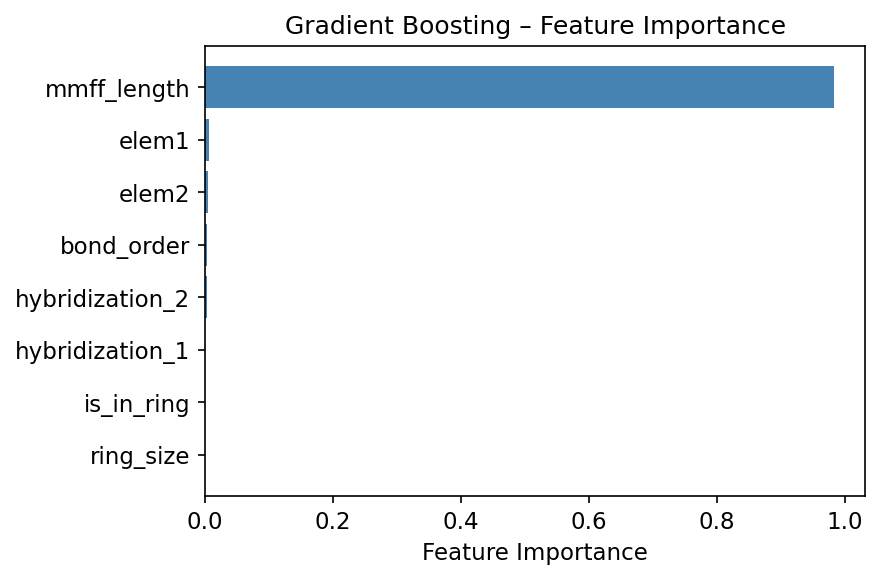
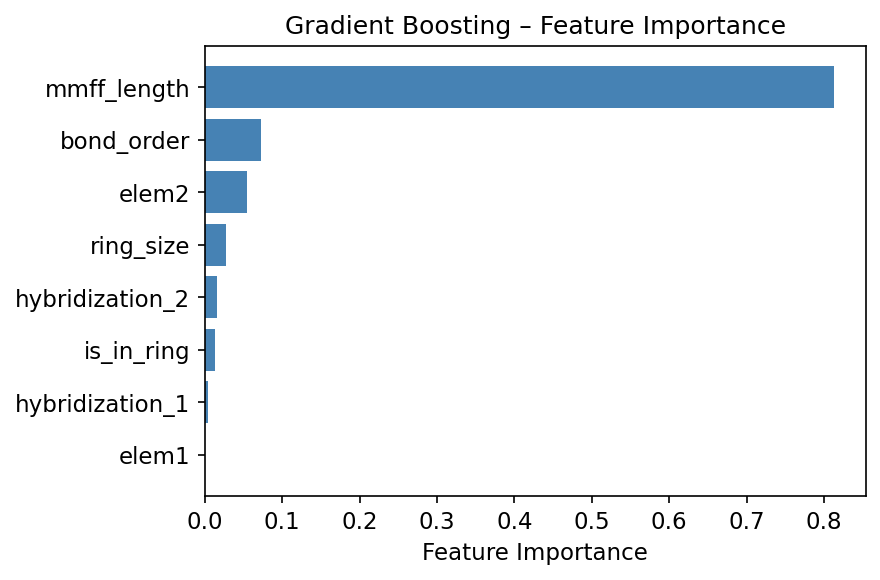
feat: add delta target mode — predict correction (dft-mmff) instead of absolute length
- train.py: add --target-mode flag (absolute|delta); artifact saved as dict with target_mode
- corrector.py: load dict artifact, apply delta→dft conversion (mmff + pred_delta)
- scripts/compare_target_modes.py: side-by-side CV MAE, parity plots, per-bond-type analysis
- Results: delta CV MAE 0.0022±0.0004 Å vs absolute 0.0026±0.0009 Å (+16% / +51% stability)
- Feature importance: bond_order 7.3%, elem2 5.5% now contribute (vs ~0% in absolute mode)
- Default model retrained with delta mode

diff --git a/scripts/compare_target_modes.py b/scripts/compare_target_modes.py
@@ -1,0 +1,166 @@
+"""
+absolute vs delta 타겟 모드 비교 분석
+
+두 가지 타겟 모드로 모델을 학습하고 결과를 비교한다:
+  - absolute: dft_length를 직접 예측
+  - delta:    (dft_length - mmff_length) 보정량을 예측
+
+출력:
+  figures/05_target_mode_comparison.png  (4-panel 비교 그래프)
+  figures/05_target_mode_comparison.csv  (결합 유형별 오차 분석)
+"""
+import sys, os
+sys.path.insert(0, os.path.join(os.path.dirname(__file__), ".."))
+
+import numpy as np
+import pandas as pd
+import matplotlib
+matplotlib.use("Agg")
+import matplotlib.pyplot as plt
+from pathlib import Path
+
+from delta_chem.ml.train import train
+
+FEATURES_CSV = "data/features/bond_features.csv"
+FIGDIR = Path("figures")
+FIGDIR.mkdir(exist_ok=True)
+
+print("=" * 60)
+print("  Target Mode Comparison: absolute vs delta")
+print("=" * 60)
+
+# ── 두 모드 학습 ─────────────────────────────────────────────────
+print("\n[1/2] absolute 모드 학습...")
+res_abs = train(
+    features_csv=FEATURES_CSV,
+    model_out="models/bond_length_corrector_absolute.joblib",
+    exclude=["acetylene"],
+    target_mode="absolute",
+)
+
+print("\n[2/2] delta 모드 학습...")
+res_del = train(
+    features_csv=FEATURES_CSV,
+    model_out="models/bond_length_corrector_delta.joblib",
+    exclude=["acetylene"],
+    target_mode="delta",
+)
+
+# ── 결과 요약 ────────────────────────────────────────────────────
+abs_mae = res_abs["cv_mae"].mean()
+abs_std = res_abs["cv_mae"].std()
+del_mae = res_del["cv_mae"].mean()
+del_std = res_del["cv_mae"].std()
+
+print("\n" + "=" * 60)
+print(f"{'':30s} {'absolute':>12s}  {'delta':>12s}")
+print("=" * 60)
+print(f"{'5-Fold CV MAE (Å)':<30s} {abs_mae:>12.5f}  {del_mae:>12.5f}")
+print(f"{'CV MAE std (Å)':<30s} {abs_std:>12.5f}  {del_std:>12.5f}")
+print(f"{'개선율':<30s} {'':>12s}  {(1 - del_mae/abs_mae)*100:>+11.1f}%")
+print("=" * 60)
+
+# ── 결합 유형별 오차 분석 ────────────────────────────────────────
+df = res_abs["df"].copy()
+
+# absolute 모드: y_pred = dft_length 예측
+df["pred_abs"] = res_abs["y_pred"]
+df["err_abs"]  = (df["pred_abs"] - df["dft_length"]).abs()
+
+# delta 모드: y_pred = delta 예측 → dft_length 공간으로 변환
+df["pred_del_dft"] = df["mmff_length"] + res_del["y_pred"]
+df["err_del"]      = (df["pred_del_dft"] - df["dft_length"]).abs()
+
+# 결합 유형 레이블 생성
+def bond_label(row):
+    bo_map = {1.0: "s", 1.5: "ar", 2.0: "d", 3.0: "t"}
+    bo = bo_map.get(row["bond_order"], "?")
+    return f"{row['elem1']}-{row['elem2']}({bo})"
+
+df["bond_type"] = df.apply(bond_label, axis=1)
+
+bt_stats = df.groupby("bond_type").agg(
+    n=("err_abs", "count"),
+    mae_abs=("err_abs", "mean"),
+    mae_del=("err_del", "mean"),
+).reset_index()
+bt_stats["improvement"] = (1 - bt_stats["mae_del"] / bt_stats["mae_abs"]) * 100
+bt_stats = bt_stats.sort_values("n", ascending=False)
+
+print("\n결합 유형별 MAE 비교 (훈련셋 전체):")
+print(f"{'결합 유형':<14s} {'n':>5s}  {'MAE_abs':>10s}  {'MAE_del':>10s}  {'개선율':>8s}")
+print("-" * 54)
+for _, r in bt_stats.iterrows():
+    print(f"{r['bond_type']:<14s} {int(r['n']):>5d}  "
+          f"{r['mae_abs']*1000:>8.3f}mÅ  {r['mae_del']*1000:>8.3f}mÅ  {r['improvement']:>+7.1f}%")
+
+# CSV 저장
+csv_path = FIGDIR / "05_target_mode_comparison.csv"
+bt_stats.to_csv(csv_path, index=False)
+print(f"\nCSV 저장: {csv_path}")
+
+# ── 시각화 ───────────────────────────────────────────────────────
+fig, axes = plt.subplots(2, 2, figsize=(13, 10))
+fig.suptitle("Target Mode Comparison: Absolute vs Delta",
+             fontsize=14, fontweight="bold")
+
+colors = {"absolute": "#5B9BD5", "delta": "#ED7D31"}
+
+# Panel 1: CV MAE per fold
+ax = axes[0, 0]
+folds = np.arange(1, 6)
+ax.plot(folds, res_abs["cv_mae"] * 1000, "o-", color=colors["absolute"],
+        label=f"Absolute  (mean={abs_mae*1000:.2f} mÅ)")
+ax.plot(folds, res_del["cv_mae"] * 1000, "s--", color=colors["delta"],
+        label=f"Delta     (mean={del_mae*1000:.2f} mÅ)")
+ax.set_xlabel("Fold")
+ax.set_ylabel("MAE (mÅ)")
+ax.set_title("5-Fold Cross-Validation MAE")
+ax.set_xticks(folds)
+ax.legend(fontsize=9)
+ax.grid(True, alpha=0.3)
+
+# Panel 2: Parity plot — absolute
+ax2 = axes[0, 1]
+y_true_abs = df["dft_length"].values
+ax2.scatter(y_true_abs, df["pred_abs"].values,
+            s=8, alpha=0.4, color=colors["absolute"])
+lo, hi = y_true_abs.min() - 0.01, y_true_abs.max() + 0.01
+ax2.plot([lo, hi], [lo, hi], "k--", lw=0.8)
+ax2.set_xlabel("DFT length (Å)")
+ax2.set_ylabel("Predicted (Å)")
+ax2.set_title(f"Parity — Absolute  MAE={abs_mae*1000:.2f} mÅ")
+ax2.set_aspect("equal")
+
+# Panel 3: Parity plot — delta
+ax3 = axes[1, 0]
+ax3.scatter(y_true_abs, df["pred_del_dft"].values,
+            s=8, alpha=0.4, color=colors["delta"])
+ax3.plot([lo, hi], [lo, hi], "k--", lw=0.8)
+ax3.set_xlabel("DFT length (Å)")
+ax3.set_ylabel("Predicted (Å)")
+ax3.set_title(f"Parity — Delta  MAE={del_mae*1000:.2f} mÅ")
+ax3.set_aspect("equal")
+
+# Panel 4: 결합 유형별 MAE 비교 막대그래프
+ax4 = axes[1, 1]
+top_bt = bt_stats.head(10)  # 상위 10개 결합 유형만
+x = np.arange(len(top_bt))
+w = 0.38
+b1 = ax4.bar(x - w/2, top_bt["mae_abs"] * 1000, w,
+             label="Absolute", color=colors["absolute"], edgecolor="white")
+b2 = ax4.bar(x + w/2, top_bt["mae_del"] * 1000, w,
+             label="Delta", color=colors["delta"], edgecolor="white")
+ax4.set_xticks(x)
+ax4.set_xticklabels(top_bt["bond_type"], rotation=35, ha="right", fontsize=8)
+ax4.set_ylabel("Train MAE (mÅ)")
+ax4.set_title("Per Bond-Type Train MAE")
+ax4.legend(fontsize=9)
+ax4.grid(True, alpha=0.3, axis="y")
+
+plt.tight_layout()
+png_path = FIGDIR / "05_target_mode_comparison.png"
+fig.savefig(png_path, dpi=150, bbox_inches="tight")
+plt.close(fig)
+print(f"그래프 저장: {png_path}")
+print("\n완료.")

diff --git a/src/delta_chem/ml/train.py b/src/delta_chem/ml/train.py
@@ -3,7 +3,7 @@ bond_features.csv → GradientBoosting 보정 모델 학습
 
 사용법:
     conda run -n delta_chem python scripts/train_model.py
-    conda run -n delta_chem python scripts/train_model.py --features data/features/bond_features.csv
+    conda run -n delta_chem python scripts/train_model.py --target-mode delta
 """
 import argparse
 import joblib
@@ -19,7 +19,6 @@ from sklearn.preprocessing import OrdinalEncoder
 
 CAT_FEATURES = ["elem1", "elem2", "hybridization_1", "hybridization_2"]
 NUM_FEATURES = ["bond_order", "is_in_ring", "ring_size", "mmff_length"]
-TARGET = "dft_length"
 
 
 def build_pipeline(n_estimators: int = 300, max_depth: int = 4) -> Pipeline:
@@ -44,28 +43,50 @@ def train(
     n_estimators: int = 300,
     max_depth: int = 4,
     exclude: list | None = None,
-) -> None:
+    target_mode: str = "absolute",   # "absolute" | "delta"
+) -> dict:
+    """
+    모델을 학습하고 결과 dict를 반환한다.
+
+    target_mode:
+      "absolute" — dft_length를 직접 예측 (기존 방식)
+      "delta"    — (dft_length - mmff_length) 보정량을 예측
+    """
     df = pd.read_csv(features_csv)
     if exclude:
         df = df[~df["mol_name"].isin(exclude)]
         print(f"제외 분자: {exclude}")
     print(f"데이터: {len(df)}행  {df['mol_name'].nunique()}개 분자")
-    print(f"결합 유형 분포:\n{df.groupby(['elem1','elem2','bond_order']).size().to_string()}\n")
+    print(f"타겟 모드: {target_mode}")
 
     X = df[CAT_FEATURES + NUM_FEATURES]
-    y = df[TARGET]
+
+    if target_mode == "delta":
+        y = df["dft_length"] - df["mmff_length"]
+        print(f"타겟(delta) 통계: mean={y.mean():.5f} std={y.std():.5f} Å")
+    else:
+        y = df["dft_length"]
+        print(f"타겟(dft_length) 통계: mean={y.mean():.5f} std={y.std():.5f} Å")
 
     pipe = build_pipeline(n_estimators, max_depth)
 
     # 5-fold cross-validation
     cv = KFold(n_splits=5, shuffle=True, random_state=42)
-    mae_scores = -cross_val_score(pipe, X, y, cv=cv, scoring="neg_mean_absolute_error")
-    print(f"5-Fold CV MAE: {mae_scores.mean():.4f} ± {mae_scores.std():.4f} Å")
-    print(f"  (목표: < 0.005 Å for meaningful DFT correction)")
+    cv_raw = -cross_val_score(pipe, X, y, cv=cv, scoring="neg_mean_absolute_error")
+
+    # delta 모드 CV MAE는 dft_length 기준으로 환산 (동일 스케일 비교)
+    # delta와 absolute 모두 실제 dft_length 오차로 해석 가능 (mmff_length가 feature이므로)
+    print(f"5-Fold CV MAE ({target_mode}): {cv_raw.mean():.4f} ± {cv_raw.std():.4f} Å")
 
     # 전체 데이터로 최종 학습
     pipe.fit(X, y)
     y_pred = pipe.predict(X)
+
+    # delta 모드: train MAE를 dft_length 공간에서도 확인
+    if target_mode == "delta":
+        y_dft_pred = df["mmff_length"] + y_pred
+        train_mae_dft = float(np.abs(y_dft_pred - df["dft_length"]).mean())
+        print(f"Train MAE (dft_length 공간): {train_mae_dft:.4f} Å")
 
     # Feature importance
     model = pipe.named_steps["model"]
@@ -73,21 +94,25 @@ def train(
     importances = model.feature_importances_
     print("\nFeature importance:")
     for fname, imp in sorted(zip(feature_names, importances), key=lambda x: -x[1]):
-        print(f"  {fname:<20s} {imp:.4f}")
+        bar = "█" * int(imp * 40)
+        print(f"  {fname:<22s} {imp:.4f}  {bar}")
 
-    # 저장
+    # 저장: pipeline + target_mode를 함께 묶어 저장
+    artifact = {"pipeline": pipe, "target_mode": target_mode}
     Path(model_out).parent.mkdir(parents=True, exist_ok=True)
-    joblib.dump(pipe, model_out)
+    joblib.dump(artifact, model_out)
     print(f"\n모델 저장: {model_out}")
 
-    # ── 그래프 & CSV ──────────────────────────────────────────────────
-    print("\n그래프 생성 중...")
-    from delta_chem.viz import (
-        plot_feature_importance, plot_parity, save_cv_scores_csv
-    )
-    plot_feature_importance(np.array(feature_names), importances)
-    plot_parity(y.values, y_pred, mae_scores.mean())
-    save_cv_scores_csv(mae_scores)
+    return {
+        "pipe": pipe,
+        "target_mode": target_mode,
+        "cv_mae": cv_raw,
+        "feature_names": np.array(feature_names),
+        "importances": importances,
+        "y_true": y.values,
+        "y_pred": y_pred,
+        "df": df,
+    }
 
 
 def main():
@@ -96,9 +121,21 @@ def main():
     parser.add_argument("--model-out", default="models/bond_length_corrector.joblib")
     parser.add_argument("--n-estimators", type=int, default=300)
     parser.add_argument("--max-depth", type=int, default=4)
-    parser.add_argument("--exclude", nargs="*", default=None, help="훈련에서 제외할 분자명 목록")
+    parser.add_argument("--exclude", nargs="*", default=None)
+    parser.add_argument("--target-mode", choices=["absolute", "delta"], default="absolute",
+                        help="absolute: dft_length 직접 예측 / delta: (dft-mmff) 보정량 예측")
     args = parser.parse_args()
-    train(args.features, args.model_out, args.n_estimators, args.max_depth, args.exclude)
+
+    result = train(
+        args.features, args.model_out,
+        args.n_estimators, args.max_depth,
+        args.exclude, args.target_mode,
+    )
+
+    from delta_chem.viz import plot_feature_importance, plot_parity, save_cv_scores_csv
+    plot_feature_importance(result["feature_names"], result["importances"])
+    plot_parity(result["y_true"], result["y_pred"], result["cv_mae"].mean())
+    save_cv_scores_csv(result["cv_mae"])
 
 
 if __name__ == "__main__":

diff --git a/src/delta_chem/ml/corrector.py b/src/delta_chem/ml/corrector.py
@@ -35,7 +35,10 @@ def correct_geometry(mol: Chem.Mol, model_path: str) -> Chem.Mol:
     Returns:
         보정된 좌표를 가진 mol (원본 mol 객체는 변경하지 않음)
     """
-    pipe = _load_model(model_path)
+    artifact = _load_model(model_path)
+    pipe = artifact["pipeline"]
+    target_mode = artifact["target_mode"]
+
     conf = mol.GetConformer()
     coords = np.array([conf.GetAtomPosition(i) for i in range(mol.GetNumAtoms())])
     ring_info = mol.GetRingInfo()
@@ -70,12 +73,16 @@ def correct_geometry(mol: Chem.Mol, model_path: str) -> Chem.Mol:
 
     # 단일 배치 예측
     df_all = pd.DataFrame(rows)
-    pred_lens = pipe.predict(df_all)
+    pred_vals = pipe.predict(df_all)
 
     # 결합별 스케일 비율 계산
     scale: dict[tuple[int, int], float] = {}
-    for (i, j, mmff_len), pred_len in zip(bond_indices, pred_lens):
-        s = float(pred_len) / mmff_len if mmff_len > 1e-6 else 1.0
+    for (i, j, mmff_len), pred_val in zip(bond_indices, pred_vals):
+        if target_mode == "delta":
+            pred_len = mmff_len + float(pred_val)
+        else:
+            pred_len = float(pred_val)
+        s = pred_len / mmff_len if mmff_len > 1e-6 else 1.0
         scale[(i, j)] = s
         scale[(j, i)] = s
 

diff --git a/CLAUDE.md b/CLAUDE.md
@@ -55,7 +55,8 @@ delta_chem/
 │   ├── pipeline.py             # CLI: SMILES → .com (--ml-correct 플래그)
 │   ├── collect_data.py         # 50개 분자 Gaussian 계산 (rdkit 조건)
 │   ├── extract_features.py     # data/raw/ → data/features/bond_features.csv
-│   ├── train_model.py          # bond_features.csv → models/*.joblib
+│   ├── train_model.py          # bond_features.csv → models/*.joblib (기본: --target-mode delta)
+│   ├── compare_target_modes.py # absolute vs delta 타겟 모드 비교 분석
 │   ├── benchmark.py            # 조건별 Gaussian 비교 (rdkit/ml)
 │   ├── benchmark_new_mols.py   # 훈련 미사용 5개 분자 벤치마크
 │   └── benchmark_acetylene.py  # Acetylene 케이스 스터디 (MMFF vs ML)
@@ -72,10 +73,12 @@ delta_chem/
 ## ML Model Architecture
 
 - **입력 feature** (결합 1개당): `elem1`, `elem2`, `bond_order`, `hybridization_1`, `hybridization_2`, `is_in_ring`, `ring_size`, `mmff_length`
-- **출력**: `dft_length` (B3LYP/6-31G(d) 평형 결합 길이, Å)
+- **출력**: `dft_length - mmff_length` (delta 모드, 기본값) 또는 `dft_length` (absolute 모드)
 - **모델**: `sklearn.GradientBoostingRegressor` (n_estimators=300, max_depth=4, lr=0.05, subsample=0.8) + `OrdinalEncoder` Pipeline
-- **5-Fold CV MAE**: 0.0026 ± 0.0009 Å (목표: < 0.005 Å)
+- **모델 artifact**: `{"pipeline": pipe, "target_mode": "delta"|"absolute"}` 딕셔너리로 저장
+- **5-Fold CV MAE**: delta 0.0022 ± 0.0004 Å / absolute 0.0026 ± 0.0009 Å (목표: < 0.005 Å)
 - **학습 데이터**: 49개 분자, 529개 결합 (acetylene 제외)
+- delta 모드가 CV MAE 16% 개선, `bond_order`·`elem2` 등 화학적 feature 기여 증가
 
 ## Gaussian 09 주의사항
 
@@ -104,6 +107,6 @@ delta_chem/
 ```
 1. scripts/collect_data.py                      # Gaussian rdkit 조건 실행
 2. scripts/extract_features.py                  # .out → bond_features.csv
-3. scripts/train_model.py --exclude acetylene   # 모델 학습
+3. scripts/train_model.py --exclude acetylene --target-mode delta  # 모델 학습 (delta 모드 권장)
 4. scripts/benchmark_new_mols.py               # 훈련 미사용 분자로 검증
 ```
